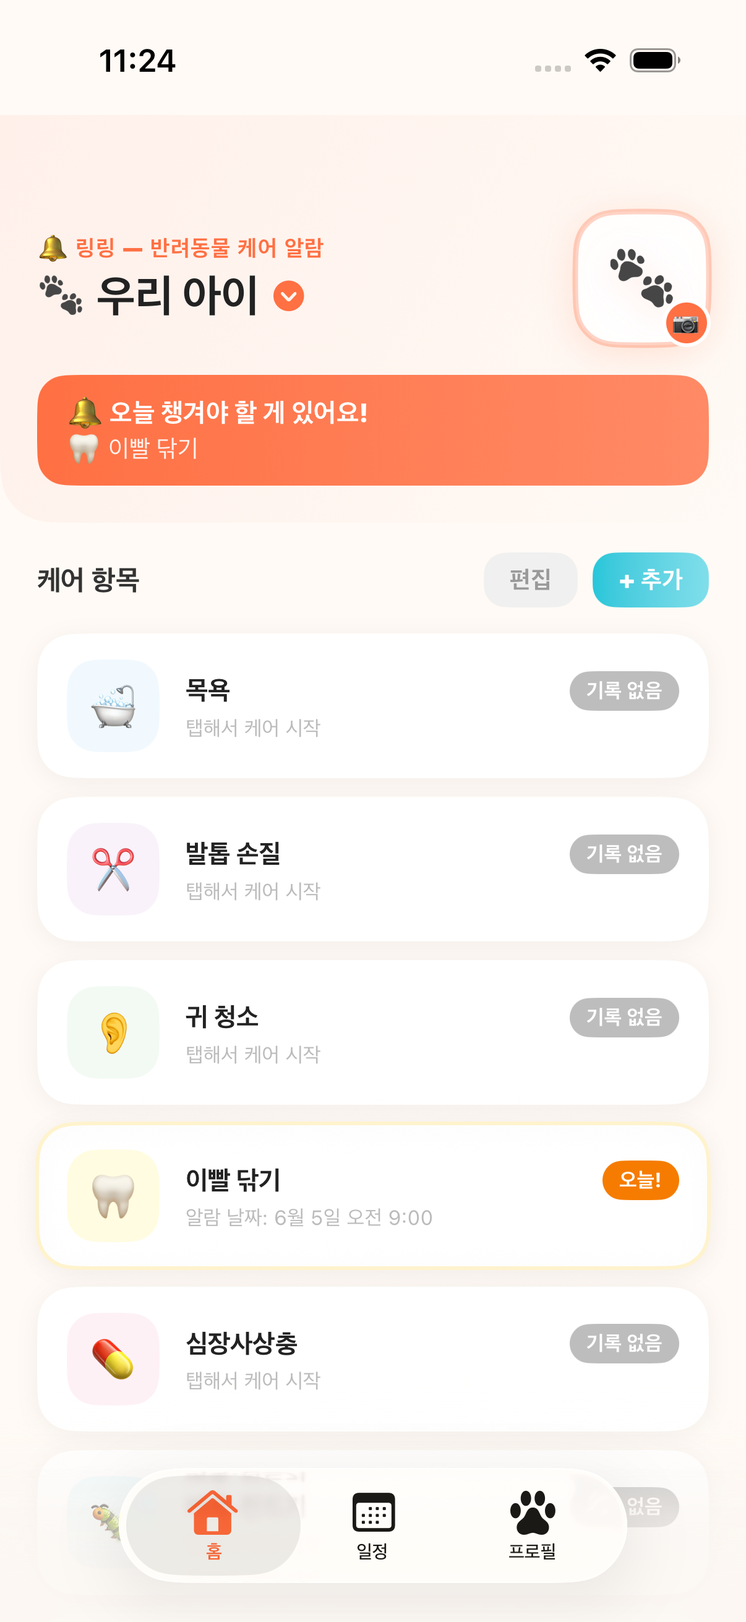
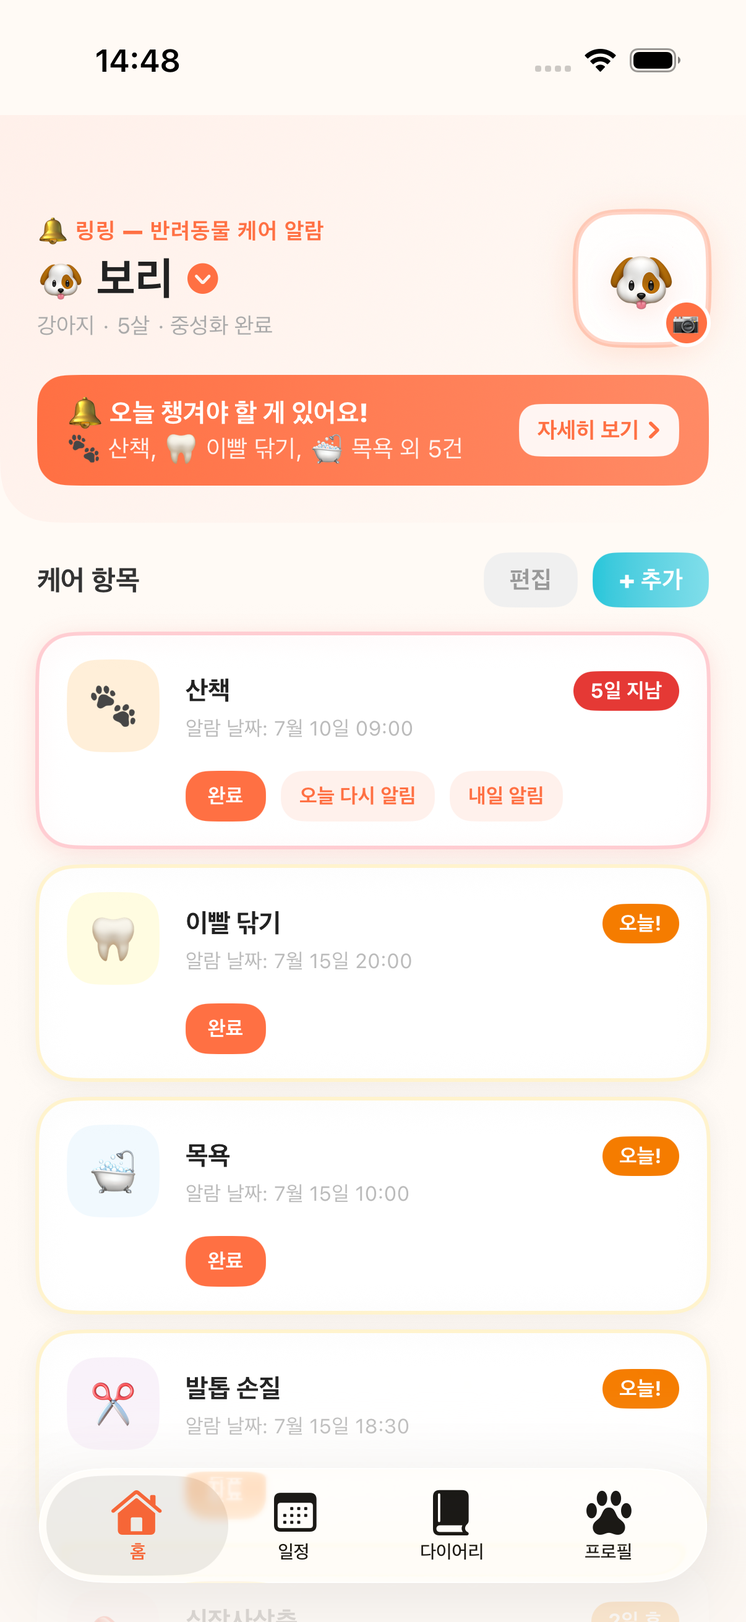
feat(site): sync landing page with current app

diff --git a/index.html b/index.html
@@ -39,14 +39,15 @@
     <span class="orb orb--cyan orb--lg orb--soft orb--delay2" style="top: 38%; right: 40%;" aria-hidden="true"></span>
     <div class="container hero-inner">
       <div class="hero-copy">
-        <span class="pill" data-ko="🐾 iOS · 출시 예정" data-en="🐾 iOS · Coming soon">🐾 iOS · 출시 예정</span>
+        <span class="pill" data-ko="🐾 iOS 출시 · Android 준비 중" data-en="🐾 Available on iOS · Android coming soon">🐾 iOS 출시 · Android 준비 중</span>
         <h1 data-ko="오늘 우리 아이에게<br>뭘 해줘야 할까?" data-en="What does my pet<br>need today?">오늘 우리 아이에게<br>뭘 해줘야 할까?</h1>
         <p class="lead" data-ko="목욕·약·병원까지. 반려동물 케어 루틴을 대신 기억하고<br>제때 알려주는 따뜻한 알림 앱, 링링." data-en="From baths to meds to vet visits —<br>RINGRING reminds you of every care routine, right on time.">목욕·약·병원까지. 반려동물 케어 루틴을 대신 기억하고<br>제때 알려주는 따뜻한 알림 앱, 링링.</p>
         <div class="hero-cta">
-          <span class="btn btn-primary is-soon" aria-disabled="true" data-ko="App Store 출시 예정" data-en="Coming to the App Store">App Store 출시 예정</span>
+          <a class="btn btn-primary" href="https://apps.apple.com/kr/app/%EB%A7%81%EB%A7%81-%EB%B0%98%EB%A0%A4%EB%8F%99%EB%AC%BC-%EC%BC%80%EC%96%B4-%EC%95%8C%EB%A6%BC/id6789553419" data-ko-href="https://apps.apple.com/kr/app/%EB%A7%81%EB%A7%81-%EB%B0%98%EB%A0%A4%EB%8F%99%EB%AC%BC-%EC%BC%80%EC%96%B4-%EC%95%8C%EB%A6%BC/id6789553419" data-en-href="https://apps.apple.com/us/app/ringring-pet-care-reminders/id6789553419" target="_blank" rel="noopener noreferrer" data-ko="App Store에서 다운로드" data-en="Download on the App Store">App Store에서 다운로드</a>
+          <span class="btn btn-ghost is-soon" aria-disabled="true" data-ko="Google Play 출시 준비 중" data-en="Coming soon on Google Play">Google Play 출시 준비 중</span>
           <a class="btn btn-ghost" href="#features" data-ko="기능 살펴보기" data-en="See features">기능 살펴보기</a>
         </div>
-        <p class="hero-note" data-ko="인터넷 없이 완전히 동작 · 모든 기록은 기기에만 저장" data-en="Works fully offline · All data stays on your device">인터넷 없이 완전히 동작 · 모든 기록은 기기에만 저장</p>
+        <p class="hero-note" data-ko="계정 없이 시작 · 핵심 케어 데이터는 기기에 저장" data-en="No account required · Core care data stays on your device">계정 없이 시작 · 핵심 케어 데이터는 기기에 저장</p>
       </div>
       <div class="hero-art">
         <div class="phone">
@@ -66,33 +67,48 @@
       <div class="grid features">
         <article class="card">
           <div class="card-ico">🔔</div>
-          <h3 data-ko="제때 오는 알림" data-en="On-time reminders">제때 오는 알림</h3>
-          <p data-ko="반복 주기에 맞춰 다음 케어 시각을 자동으로 예약해요. 일·주·월·년, 특정 요일, 월말까지 세밀하게 설정할 수 있어요." data-en="Schedules the next care time automatically by repeat cycle — days, weeks, months, years, specific weekdays, or end-of-month.">반복 주기에 맞춰 다음 케어 시각을 자동으로 예약해요. 일·주·월·년, 특정 요일, 월말까지 세밀하게 설정할 수 있어요.</p>
+          <h3 data-ko="내 일정에 맞춘 알림" data-en="Reminders on your schedule">내 일정에 맞춘 알림</h3>
+          <p data-ko="시작일·시간·알림 문구를 정하고, 일·주·월·년·특정 요일·월말 반복까지 세밀하게 설정해요. 놓친 케어는 오늘이나 내일 다시 알려드릴 수 있어요." data-en="Set the start date, time, and reminder message, with daily, weekly, monthly, yearly, weekday, and end-of-month repeats. Snooze missed care until today or tomorrow.">시작일·시간·알림 문구를 정하고, 일·주·월·년·특정 요일·월말 반복까지 세밀하게 설정해요. 놓친 케어는 오늘이나 내일 다시 알려드릴 수 있어요.</p>
         </article>
         <article class="card">
-          <div class="card-ico">🚦</div>
-          <h3 data-ko="한눈에 보는 상태" data-en="Status at a glance">한눈에 보는 상태</h3>
-          <p data-ko="기한 초과·오늘·곧 예정·양호를 색상 뱃지로 표시해 지금 챙겨야 할 항목이 바로 보여요." data-en="Color badges for overdue, today, soon, and OK — so you instantly see what needs attention.">기한 초과·오늘·곧 예정·양호를 색상 뱃지로 표시해 지금 챙겨야 할 항목이 바로 보여요.</p>
+          <div class="card-ico">⚡</div>
+          <h3 data-ko="급한 케어 한눈에" data-en="Urgent care at a glance">급한 케어 한눈에</h3>
+          <p data-ko="기한이 지났거나 오늘·곧 예정된 케어를 모아 보고 그 자리에서 바로 완료해요." data-en="See overdue, due-today, and upcoming care together, then complete each item right there.">기한이 지났거나 오늘·곧 예정된 케어를 모아 보고 그 자리에서 바로 완료해요.</p>
         </article>
         <article class="card">
           <div class="card-ico">📅</div>
           <h3 data-ko="월별 케어 달력" data-en="Monthly care calendar">월별 케어 달력</h3>
-          <p data-ko="완료 기록과 예정 케어를 달력에서 한 번에. 날짜를 탭하면 그날의 상세 일정을 볼 수 있어요." data-en="See completed and upcoming care on one calendar. Tap a date for that day's details.">완료 기록과 예정 케어를 달력에서 한 번에. 날짜를 탭하면 그날의 상세 일정을 볼 수 있어요.</p>
-        </article>
-        <article class="card">
-          <div class="card-ico">⚖</div>
-          <h3 data-ko="프로필과 체중 차트" data-en="Profile & weight chart">프로필과 체중 차트</h3>
-          <p data-ko="이름·종류·생일·중성화 여부를 담은 프로필과, 일·월·년으로 보는 체중 변화 차트를 제공해요." data-en="A profile with name, type, birthday, and neuter status, plus a weight chart by day, month, and year.">이름·종류·생일·중성화 여부를 담은 프로필과, 일·월·년으로 보는 체중 변화 차트를 제공해요.</p>
+          <p data-ko="완료 기록과 예정 케어를 한 달 달력에서 함께 보고 날짜별 상세를 열어요." data-en="Review completed and upcoming care on one monthly calendar and open any day for details.">완료 기록과 예정 케어를 한 달 달력에서 함께 보고 날짜별 상세를 열어요.</p>
         </article>
         <article class="card">
           <div class="card-ico">🐾</div>
           <h3 data-ko="여러 반려동물 관리" data-en="Manage multiple pets">여러 반려동물 관리</h3>
-          <p data-ko="여러 마리를 등록하고 한 번에 전환해요. 새 아이를 추가할 때 기존 케어 항목을 그대로 복사할 수 있고, 잠시 돌보지 않는 아이는 보관함에 넣었다가 언제든 다시 관리할 수 있어요." data-en="Register multiple pets and switch in a tap. Copy an existing pet's care items when adding a new one, and tuck away pets you're not caring for in the archive — restore them anytime.">여러 마리를 등록하고 한 번에 전환해요. 새 아이를 추가할 때 기존 케어 항목을 그대로 복사할 수 있고, 잠시 돌보지 않는 아이는 보관함에 넣었다가 언제든 다시 관리할 수 있어요.</p>
+          <p data-ko="아이마다 프로필을 만들고 한 번에 전환해요. 케어 설정 복사와 반려동물 보관·복원도 지원해요." data-en="Create a profile for each pet, switch in one tap, copy care settings, and archive or restore pets anytime.">아이마다 프로필을 만들고 한 번에 전환해요. 케어 설정 복사와 반려동물 보관·복원도 지원해요.</p>
+        </article>
+        <article class="card">
+          <div class="card-ico">📔</div>
+          <h3 data-ko="아이별 다이어리" data-en="A diary for every pet">아이별 다이어리</h3>
+          <p data-ko="아이별로 다이어리 책을 만들고 표지와 날짜·글·사진 최대 10장을 담은 속지를 쌓아요." data-en="Create diary books for each pet and fill pages with a date, writing, and up to 10 photos.">아이별로 다이어리 책을 만들고 표지와 날짜·글·사진 최대 10장을 담은 속지를 쌓아요.</p>
+        </article>
+        <article class="card">
+          <div class="card-ico">⚖</div>
+          <h3 data-ko="프로필과 체중 차트" data-en="Profile &amp; weight chart">프로필과 체중 차트</h3>
+          <p data-ko="프로필·케어 통계와 일·월·년 단위 체중 변화를 한곳에서 확인해요." data-en="Keep profile details, care stats, and weight trends together by day, month, or year.">프로필·케어 통계와 일·월·년 단위 체중 변화를 한곳에서 확인해요.</p>
+        </article>
+        <article class="card">
+          <div class="card-ico">🗂</div>
+          <h3 data-ko="내 방식대로 정리" data-en="Organize it your way">내 방식대로 정리</h3>
+          <p data-ko="케어 카드를 원하는 순서로 옮기고, 루틴을 복사하거나 기록을 유지한 채 보관해요." data-en="Drag care cards into your preferred order, copy routines, and archive tasks without losing their history.">케어 카드를 원하는 순서로 옮기고, 루틴을 복사하거나 기록을 유지한 채 보관해요.</p>
+        </article>
+        <article class="card">
+          <div class="card-ico">🌗</div>
+          <h3 data-ko="편안한 화면과 언어" data-en="Your theme and language">편안한 화면과 언어</h3>
+          <p data-ko="iOS와 Android에서 라이트·다크 테마를 직접 고르고 한국어·영어로 사용해요." data-en="Choose light or dark mode and use RINGRING in Korean or English on iOS and Android.">iOS와 Android에서 라이트·다크 테마를 직접 고르고 한국어·영어로 사용해요.</p>
         </article>
         <article class="card">
           <div class="card-ico">🔒</div>
-          <h3 data-ko="오프라인 · 로컬 저장" data-en="Offline · stored locally">오프라인 · 로컬 저장</h3>
-          <p data-ko="로그인도 서버도 필요 없어요. 모든 데이터는 기기에만 저장되고, 인터넷 없이 완전히 동작해요." data-en="No login, no server. All data stays on your device and the app works fully offline.">로그인도 서버도 필요 없어요. 모든 데이터는 기기에만 저장되고, 인터넷 없이 완전히 동작해요.</p>
+          <h3 data-ko="계정 없는 로컬 중심" data-en="Local-first, no account">계정 없는 로컬 중심</h3>
+          <p data-ko="회원가입 없이 시작해요. 핵심 케어 데이터는 기기에 저장되고 익명 분석은 동의 전까지 꺼져 있어요." data-en="Start without an account. Core care data stays on your device, while anonymous analytics remains off until you opt in.">회원가입 없이 시작해요. 핵심 케어 데이터는 기기에 저장되고 익명 분석은 동의 전까지 꺼져 있어요.</p>
         </article>
       </div>
     </div>
@@ -104,48 +120,48 @@
     <span class="orb orb--cyan orb--lg orb--soft orb--delay" style="bottom: 6%; right: 3%;" aria-hidden="true"></span>
     <div class="container">
       <h2 class="section-title" data-ko="화면으로 보기" data-en="See it in action">화면으로 보기</h2>
-      <p class="section-sub" data-ko="홈에서 케어를 챙기고, 달력으로 일정을 보고, 프로필로 우리 아이를 돌봐요.<br>여러 아이를 추가하고 보관함으로 정리할 수도 있어요." data-en="Track care on Home, view the schedule on the calendar, and care for your pet from the profile.<br>Add multiple pets and tidy up with the archive.">홈에서 케어를 챙기고, 달력으로 일정을 보고, 프로필로 우리 아이를 돌봐요.<br>여러 아이를 추가하고 보관함으로 정리할 수도 있어요.</p>
+      <p class="section-sub" data-ko="홈·일정·다이어리·프로필 네 탭과 최신 케어 흐름을 실제 화면으로 확인해 보세요." data-en="See the four tabs — Home, Schedule, Diary, and Profile — plus the latest care flows.">홈·일정·다이어리·프로필 네 탭과 최신 케어 흐름을 실제 화면으로 확인해 보세요.</p>
       <div class="grid screens">
         <figure class="screen">
-          <div class="phone"><div class="phone-screen"><img src="assets/shot-home.png" data-ko-alt="홈 화면" data-en-alt="Home screen" alt="홈 화면" /></div></div>
+          <div class="phone"><div class="phone-screen"><img src="assets/shot-home.png" data-ko-alt="링링 홈 화면" data-en-alt="RINGRING Home screen" alt="링링 홈 화면" /></div></div>
           <figcaption>
-            <strong data-ko="홈 · 오늘 할 일" data-en="Home · today's tasks">홈 · 오늘 할 일</strong>
-            <span data-ko="오늘 챙길 케어를 배너로 알려줘요." data-en="A banner highlights what to care for today.">오늘 챙길 케어를 배너로 알려줘요.</span>
+            <strong data-ko="홈 · 오늘 필요한 케어" data-en="Home · today's care">홈 · 오늘 필요한 케어</strong>
+            <span data-ko="기한 초과·오늘·다가오는 케어를 한눈에 봐요." data-en="See overdue, due-today, and upcoming care at a glance.">기한 초과·오늘·다가오는 케어를 한눈에 봐요.</span>
           </figcaption>
         </figure>
         <figure class="screen">
-          <div class="phone"><div class="phone-screen"><img src="assets/shot-schedule.png" data-ko-alt="일정 달력 화면" data-en-alt="Schedule calendar screen" alt="일정 달력 화면" /></div></div>
+          <div class="phone"><div class="phone-screen"><img src="assets/shot-urgent.png" data-ko-alt="급한 케어 화면" data-en-alt="Urgent care screen" alt="급한 케어 화면" /></div></div>
+          <figcaption>
+            <strong data-ko="급한 케어 · 바로 완료" data-en="Urgent care · complete now">급한 케어 · 바로 완료</strong>
+            <span data-ko="급한 항목만 모아 보고 그 자리에서 완료해요." data-en="Review urgent items together and complete them in place.">급한 항목만 모아 보고 그 자리에서 완료해요.</span>
+          </figcaption>
+        </figure>
+        <figure class="screen">
+          <div class="phone"><div class="phone-screen"><img src="assets/shot-reminder.png" data-ko-alt="알림 및 반복 주기 설정 화면" data-en-alt="Reminder and repeat schedule screen" alt="알림 및 반복 주기 설정 화면" /></div></div>
+          <figcaption>
+            <strong data-ko="알림 · 반복과 문구 설정" data-en="Reminders · schedule &amp; message">알림 · 반복과 문구 설정</strong>
+            <span data-ko="시작일·시간·알림 문구·반복 주기까지 설정해요." data-en="Set the start date, time, message, and repeat cycle.">시작일·시간·알림 문구·반복 주기까지 설정해요.</span>
+          </figcaption>
+        </figure>
+        <figure class="screen">
+          <div class="phone"><div class="phone-screen"><img src="assets/shot-schedule.png" data-ko-alt="월별 일정 화면" data-en-alt="Monthly schedule screen" alt="월별 일정 화면" /></div></div>
           <figcaption>
             <strong data-ko="일정 · 월별 달력" data-en="Schedule · monthly calendar">일정 · 월별 달력</strong>
-            <span data-ko="완료와 예정을 달력에서 한눈에." data-en="Completed and upcoming, all on one calendar.">완료와 예정을 달력에서 한눈에.</span>
+            <span data-ko="완료 기록과 다가오는 일정을 함께 확인해요." data-en="See completed and upcoming routines together.">완료 기록과 다가오는 일정을 함께 확인해요.</span>
           </figcaption>
         </figure>
         <figure class="screen">
-          <div class="phone"><div class="phone-screen"><img src="assets/shot-add-task.png" data-ko-alt="케어 추가 · 반복 주기 설정 화면" data-en-alt="Add care · repeat cycle setup screen" alt="케어 추가 · 반복 주기 설정 화면" /></div></div>
+          <div class="phone"><div class="phone-screen"><img src="assets/shot-diary.png" data-ko-alt="다이어리 책장 화면" data-en-alt="Diary bookshelf screen" alt="다이어리 책장 화면" /></div></div>
           <figcaption>
-            <strong data-ko="케어 추가 · 반복 주기" data-en="Add care · repeat cycle">케어 추가 · 반복 주기</strong>
-            <span data-ko="일·주·월·년 단위로 반복을 자유롭게 설정해요." data-en="Set repeats freely by day, week, month, or year.">일·주·월·년 단위로 반복을 자유롭게 설정해요.</span>
+            <strong data-ko="다이어리 · 추억 기록" data-en="Diary · keep memories">다이어리 · 추억 기록</strong>
+            <span data-ko="아이별 책에 글과 사진을 차곡차곡 남겨요." data-en="Build a book of writing and photos for each pet.">아이별 책에 글과 사진을 차곡차곡 남겨요.</span>
           </figcaption>
         </figure>
         <figure class="screen">
           <div class="phone"><div class="phone-screen"><img src="assets/shot-profile.png" data-ko-alt="프로필과 체중 차트 화면" data-en-alt="Profile and weight chart screen" alt="프로필과 체중 차트 화면" /></div></div>
           <figcaption>
-            <strong data-ko="프로필 · 체중 변화" data-en="Profile · weight trend">프로필 · 체중 변화</strong>
-            <span data-ko="케어 통계와 체중 차트를 한 화면에." data-en="Care stats and weight chart in one place.">케어 통계와 체중 차트를 한 화면에.</span>
-          </figcaption>
-        </figure>
-        <figure class="screen">
-          <div class="phone"><div class="phone-screen"><img src="assets/shot-pet-add.png" data-ko-alt="반려동물 추가 화면" data-en-alt="Add pet screen" alt="반려동물 추가 화면" /></div></div>
-          <figcaption>
-            <strong data-ko="반려동물 추가 · 케어 복사" data-en="Add pet · copy care">반려동물 추가 · 케어 복사</strong>
-            <span data-ko="새 아이를 등록하고 케어 항목을 그대로 복사해요." data-en="Register a new pet and copy care items over.">새 아이를 등록하고 케어 항목을 그대로 복사해요.</span>
-          </figcaption>
-        </figure>
-        <figure class="screen">
-          <div class="phone"><div class="phone-screen"><img src="assets/shot-pet-rest.png" data-ko-alt="보관함 화면" data-en-alt="Pet archive screen" alt="보관함 화면" /></div></div>
-          <figcaption>
-            <strong data-ko="보관함 · 잠시 쉬어가기" data-en="Archive · take a break">보관함 · 잠시 쉬어가기</strong>
-            <span data-ko="돌보지 않는 아이는 보관했다가 다시 관리해요." data-en="Archive pets you're not caring for, then bring them back.">돌보지 않는 아이는 보관했다가 다시 관리해요.</span>
+            <strong data-ko="프로필 · 체중 변화" data-en="Profile · weight trends">프로필 · 체중 변화</strong>
+            <span data-ko="케어 통계와 체중 흐름을 꾸준히 확인해요." data-en="Follow care stats and weight trends over time.">케어 통계와 체중 흐름을 꾸준히 확인해요.</span>
           </figcaption>
         </figure>
       </div>
@@ -156,7 +172,7 @@
   <section class="section" id="care">
     <div class="container">
       <h2 class="section-title" data-ko="기본 케어 항목 7종" data-en="7 built-in care items">기본 케어 항목 7종</h2>
-      <p class="section-sub" data-ko="설치하면 바로 쓸 수 있게 준비돼 있어요. 직접 추가하거나 보관함으로 정리할 수도 있어요." data-en="Ready to use out of the box — add your own or tidy up with the archive.">설치하면 바로 쓸 수 있게 준비돼 있어요. 직접 추가하거나 보관함으로 정리할 수도 있어요.</p>
+      <p class="section-sub" data-ko="첫 반려동물을 등록하면 바로 쓸 수 있게 준비돼 있어요. 직접 추가하거나 보관함으로 정리할 수도 있어요." data-en="Ready when you register your first pet — add your own or tidy up with the archive.">첫 반려동물을 등록하면 바로 쓸 수 있게 준비돼 있어요. 직접 추가하거나 보관함으로 정리할 수도 있어요.</p>
       <ul class="care-list">
         <li class="chip"><span class="chip-ico">🛁</span><span><strong data-ko="목욕" data-en="Bath">목욕</strong><em data-ko="2주마다" data-en="Every 2 weeks">2주마다</em></span></li>
         <li class="chip"><span class="chip-ico">✂</span><span><strong data-ko="발톱 손질" data-en="Nail trim">발톱 손질</strong><em data-ko="매월 같은 날" data-en="Monthly">매월 같은 날</em></span></li>
@@ -175,7 +191,11 @@
     <div class="container privacy-inner">
       <div class="privacy-ico">🔒</div>
       <h2 class="section-title" data-ko="당신의 기록은 당신만의 것" data-en="Your records are yours alone">당신의 기록은 당신만의 것</h2>
-      <p class="section-sub" data-ko="링링은 계정도, 서버도, 추적도 없어요. 반려동물 프로필과 케어 기록을 포함한 모든 데이터는 오직 기기 안에만 저장됩니다." data-en="RINGRING has no account, no server, no tracking. All data — including your pet profile and care records — is stored only on your device.">링링은 계정도, 서버도, 추적도 없어요. 반려동물 프로필과 케어 기록을 포함한 모든 데이터는 오직 기기 안에만 저장됩니다.</p>
+      <p class="section-sub" data-ko="반려동물 프로필, 케어 기록, 메모, 체중, 다이어리 사진은 계정이나 클라우드 없이 기기에 저장됩니다. 익명 사용 분석은 기본 꺼짐이며 동의한 경우에만 수집하고, 무료 운영을 위해 홈과 일정에 비맞춤형 광고가 표시될 수 있습니다." data-en="Pet profiles, care records, notes, weight entries, and diary photos stay on your device without an account or cloud sync. Anonymous usage analytics is off by default and only turns on with your consent. Non-personalized ads may appear on Home and Schedule to help keep RINGRING free.">반려동물 프로필, 케어 기록, 메모, 체중, 다이어리 사진은 계정이나 클라우드 없이 기기에 저장됩니다. 익명 사용 분석은 기본 꺼짐이며 동의한 경우에만 수집하고, 무료 운영을 위해 홈과 일정에 비맞춤형 광고가 표시될 수 있습니다.</p>
+      <div class="legal-links">
+        <a href="https://blanksh.notion.site/37a9c106f5a7809f9043e443b8a871fa" target="_blank" rel="noopener noreferrer" data-ko="개인정보처리방침" data-en="Privacy Policy">개인정보처리방침</a>
+        <a href="https://blanksh.notion.site/37a9c106f5a780829632e88ea97b3f79" target="_blank" rel="noopener noreferrer" data-ko="이용약관" data-en="Terms of Service">이용약관</a>
+      </div>
     </div>
   </section>
 
@@ -189,7 +209,7 @@
           <span data-ko="반려동물 케어 루틴 알림" data-en="Pet care routine reminders">반려동물 케어 루틴 알림</span>
         </div>
       </div>
-      <p class="footer-soon" data-ko="iOS App Store 출시 예정 · 인터넷 없이 완전히 동작" data-en="Coming to the iOS App Store · Works fully offline">iOS App Store 출시 예정 · 인터넷 없이 완전히 동작</p>
+      <p class="footer-soon" data-ko="iOS App Store에서 이용 가능 · Android 출시 준비 중" data-en="Available on the App Store · Android coming soon">iOS App Store에서 이용 가능 · Android 출시 준비 중</p>
       <p class="footer-copy">© 2026 RINGRING</p>
     </div>
   </footer>

diff --git a/styles.css b/styles.css
@@ -136,13 +136,13 @@ a { color: inherit; text-decoration: none; }
   color: #fff;
   box-shadow: var(--shadow);
 }
-.btn-primary.is-soon { cursor: default; opacity: 0.92; }
+.btn.is-soon { cursor: default; opacity: 0.72; }
 .btn-ghost {
   background: var(--surface);
   color: var(--text);
   border: 1px solid rgba(34, 34, 34, 0.12);
 }
-.btn-ghost:hover { transform: translateY(-1px); }
+.btn-ghost:not(.is-soon):hover { transform: translateY(-1px); }
 .hero-note {
   margin-top: 18px;
   font-size: 13px;
@@ -176,8 +176,7 @@ a { color: inherit; text-decoration: none; }
 .phone-screen {
   border-radius: 30px;
   overflow: hidden;
-  /* 원본 비율 1206×2622에서 하단 탭바(다이어리 메뉴 포함)를 잘라낸 비율 */
-  aspect-ratio: 1206 / 2300;
+  aspect-ratio: 1206 / 2622;
 }
 .phone-screen img {
   display: block;
@@ -318,6 +317,24 @@ a { color: inherit; text-decoration: none; }
     inset 0 1px 2px rgba(255, 255, 255, 0.95),
     0 10px 24px rgba(255, 112, 67, 0.18);
 }
+.legal-links {
+  display: flex;
+  justify-content: center;
+  gap: 20px;
+  margin-top: 24px;
+}
+.legal-links a {
+  border-radius: 4px;
+  color: var(--primary);
+  font-size: 14px;
+  font-weight: 600;
+  text-decoration: underline;
+  text-underline-offset: 4px;
+}
+.legal-links a:focus-visible {
+  outline: 3px solid rgba(255, 112, 67, 0.35);
+  outline-offset: 4px;
+}
 
 /* ===== Footer ===== */
 .site-footer {
@@ -388,7 +405,9 @@ a { color: inherit; text-decoration: none; }
 }
 @media (max-width: 560px) {
   .nav { display: none; }
-  .features { grid-template-columns: 1fr; }
+  .features,
+  .screens { grid-template-columns: 1fr; }
+  .legal-links { flex-direction: column; align-items: center; }
   .section { padding: 56px 0; }
   .hero { padding: 48px 0 40px; }
 }

diff --git a/script.js b/script.js
@@ -34,6 +34,13 @@
       if (altVal !== null) img.setAttribute("alt", altVal);
     });
 
+    // 언어별 스토어 링크
+    var links = document.querySelectorAll("[data-ko-href][data-en-href]");
+    links.forEach(function (link) {
+      var href = link.getAttribute("data-" + lang + "-href");
+      if (href !== null) link.setAttribute("href", href);
+    });
+
     // 토글 버튼 활성 표시
     var opts = document.querySelectorAll(".lang-opt");
     opts.forEach(function (opt) {
